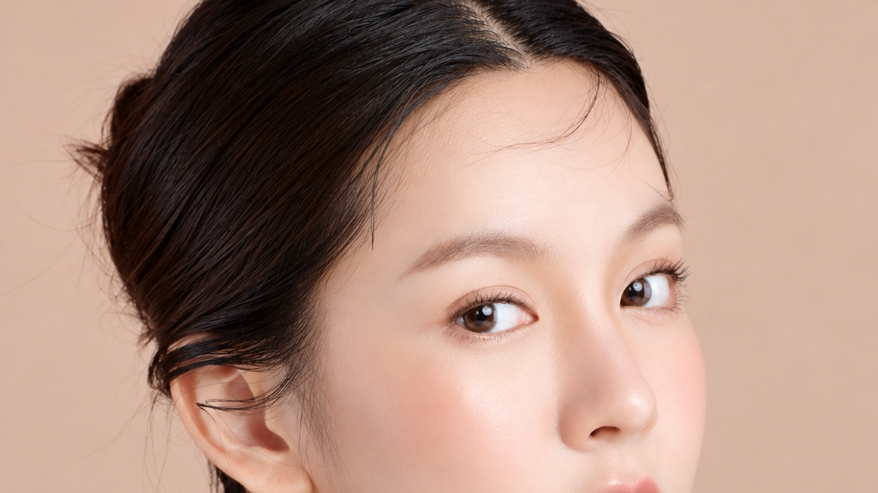
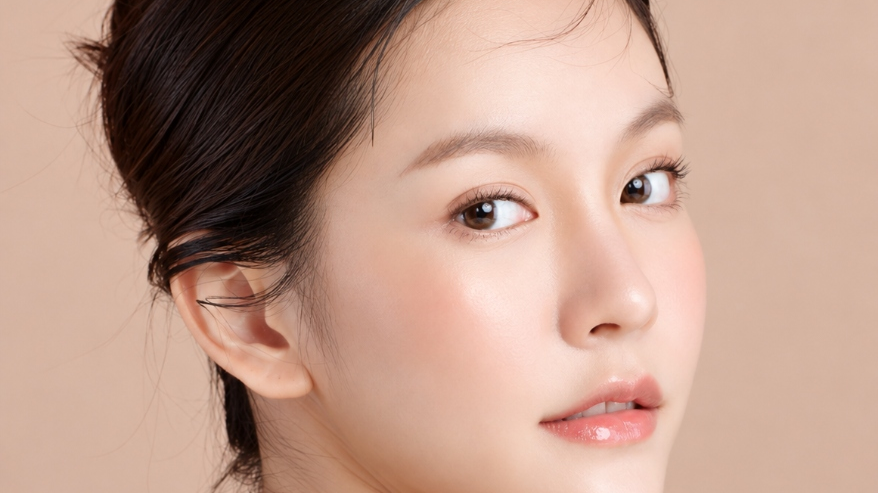
Center face photo on Oligio X promo item and bump cache version to v119

diff --git a/specials-renderer.js b/specials-renderer.js
@@ -27,7 +27,7 @@ function renderNovemberSpecials(config) {
                     <div class="lg:col-span-5 flex flex-col justify-between space-y-5">
                         <!-- Framed Promo Image -->
                         <div class="relative w-full aspect-[16/9] sm:aspect-[2/1] lg:aspect-[16/9] rounded-2xl overflow-hidden border border-black/5 shadow-sm bg-white">
-                            <img src="${stepItem.image}" alt="${stepItem.title}" class="w-full h-full object-cover group-hover:scale-103 transition-transform duration-700">
+                            <img src="${stepItem.image}?v=119" alt="${stepItem.title}" class="w-full h-full object-cover object-center group-hover:scale-103 transition-transform duration-700">
                         </div>
 
                         <!-- Price Box (Cream Box) -->

diff --git a/specials-november.html b/specials-november.html
@@ -87,8 +87,8 @@
     <script src="script.js?v=51"></script>
 
     <!-- Load the November Configuration & Renderer -->
-    <script src="specials-november-data.js?v=118"></script>
-    <script src="specials-renderer.js?v=118"></script>
+    <script src="specials-november-data.js?v=119"></script>
+    <script src="specials-renderer.js?v=119"></script>
     <script>
         document.addEventListener('DOMContentLoaded', () => {
             const container = document.getElementById('specials-container');
